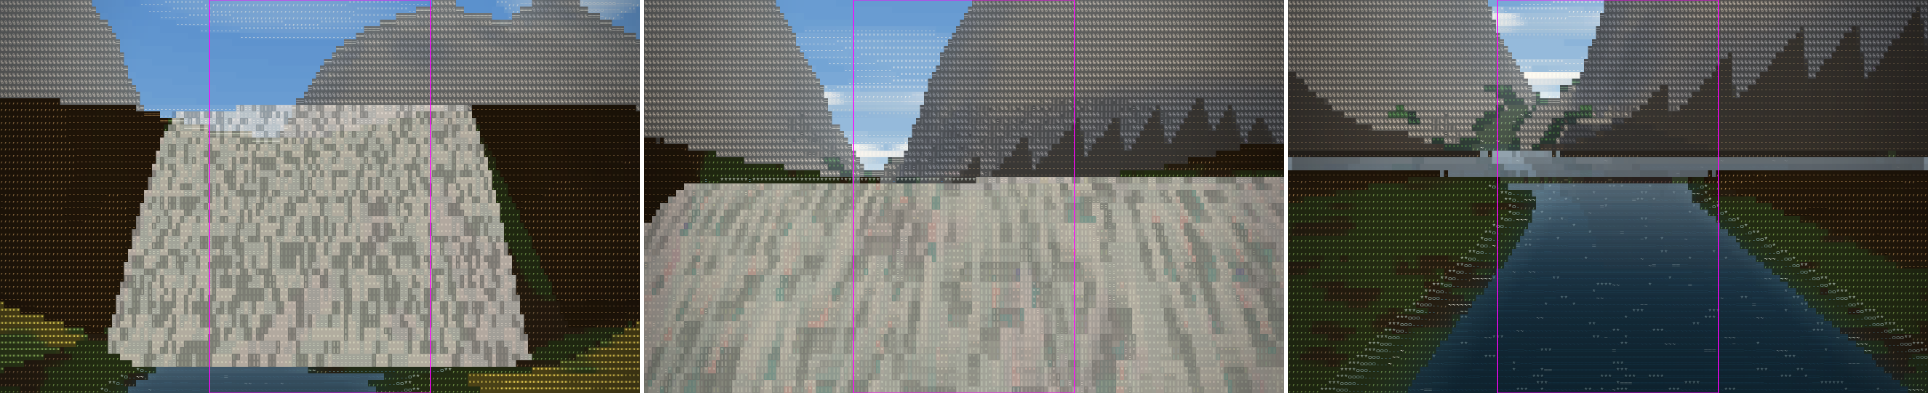
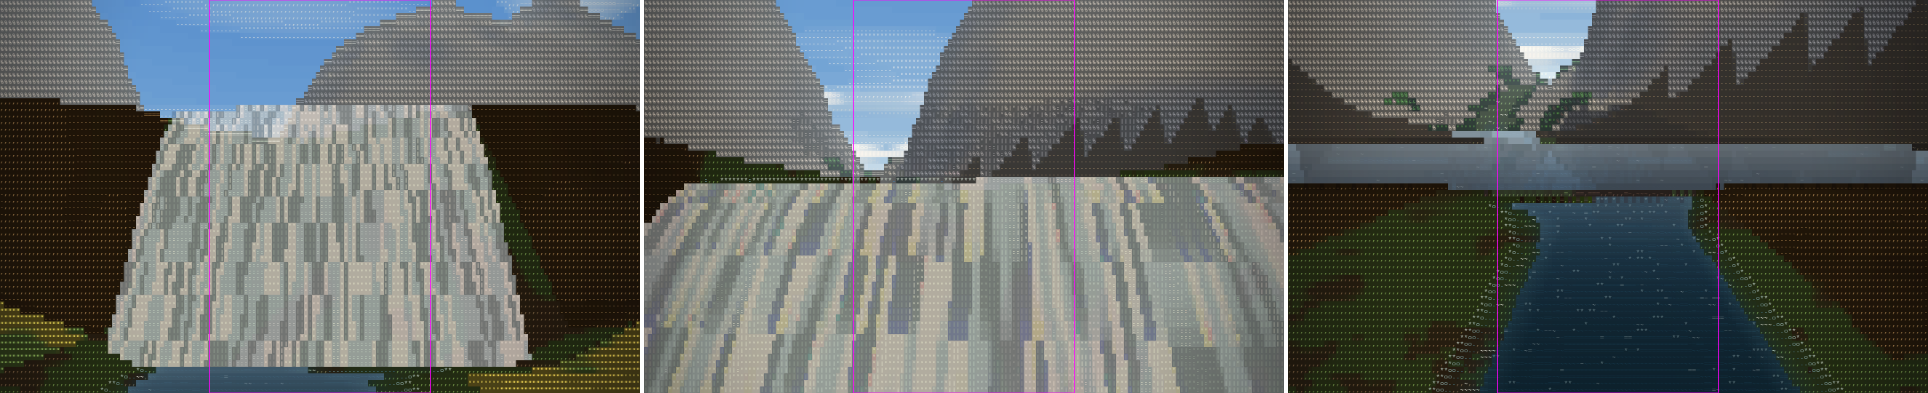
TEASER-QA-01/03: leaves path re-authored into the 12-trunk stand (hour 10); waterfall sheet hash cells 2 m long down the fall (streaks, not stone) in twin + WGSL + GLSL ref, sheet tint blue-white (designer to sign off); river-falls end key raised so the lake reads open

diff --git a/engine/render/gpu/wgsl/waterComposite.wgsl.js b/engine/render/gpu/wgsl/waterComposite.wgsl.js
@@ -12,7 +12,7 @@ import {
   GBUF_UNPACK_WGSL, FULLSCREEN_VS_WGSL, CELL_RAY_WGSL, CELL_RAY_PITCHED_WGSL, FMOD_WGSL, HASH_FAST_WGSL, BYTE_OUT_WGSL,
 } from './common.wgsl.js';
 import { SUN_N_SHIFT, SUN_N_MASK, CLOUD_Q_SHIFT } from '../../shadowSun.js'; // CLOUD_Q_SHIFT: S8-B2-12c (38.13)
-import { WL_STRIDE, WL_SLOTS, WATER_HASH_SALT, WATER_FLOW_SALT, WATER_FALL_SALT, RIPPLE_SLOTS, RIPPLE_ACC_MIN } from '../../waterLook.js';
+import { WL_STRIDE, WL_SLOTS, WATER_HASH_SALT, WATER_FLOW_SALT, WATER_FALL_SALT, FALL_STREAK_M, RIPPLE_SLOTS, RIPPLE_ACC_MIN } from '../../waterLook.js';
 import { SKY_LUT_N } from './skyLut.js';
 import { WATER_REFLECT } from '../../waterReflect.js'; // AUD-42: constants shared with the JS twin
 import { WF_SLOTS, WATER_FINISH_WGSL } from '../../waterFinish.js'; // WATER-FINISH-01b (38.77): finish row + reflection/caustic helpers
@@ -261,7 +261,7 @@ struct FO { @location(0) fg: vec4f, @location(1) bg: vec4f };
     let lip = wu.wl[lb + 10];
     let u = (P.x - lip.x) * lip.z + (P.y - lip.y) * lip.w;
     let ia = i32(floor(u / 0.25));
-    let ib = i32(floor((bitcast<f32>(w.z) - wu.wl[lb + 9].x) / 0.6));
+    let ib = i32(floor((bitcast<f32>(w.z) - wu.wl[lb + 9].x) / ${FALL_STREAK_M.toFixed(1)}));
     let h = hashFastU(ia & 1023, ib & 1023, ${WATER_FALL_SALT});
     let gi = i32(umod(h, u32(nGlyph)));
     let gv = wu.wl[lb + 4 + (gi >> 2)];

diff --git a/engine/render/waterLook.js b/engine/render/waterLook.js
@@ -31,6 +31,8 @@ export const WATER_HASH_SALT = 57;
 /** Salt of the flow streak hash (`hashFastU(ia & 1023, ib & 1023, WATER_FLOW_SALT)`, 35.4). */
 export const WATER_FLOW_SALT = 59;
 export const WATER_FALL_SALT = 61;
+// TEASER-QA-03: sheet hash cell = 0.25 m across x FALL_STREAK_M along the fall (was 0.6: per-cell noise read as a stone wall from 20+ m; long cells = falling streaks).
+export const FALL_STREAK_M = 2;
 /** Flow below this speed (m/s) is still water: the 32.2 time-bucket hash, no streaks. */
 export const FLOW_MIN = 0.05;
 /** Slots 0..7 regions, 8..11 waterfall sheets (35.3), 12..13 river ribbons (38.45, RIVER-03: the GPU uniform now holds all 14). */
@@ -234,7 +236,7 @@ export function waterSurfaceHash(t, lb, px, py) {
 export function waterfallHash(t, lb, px, py, arc) {
   const f = Math.fround;
   const u = f(f(f(f(px) - t[lb + 40]) * t[lb + 42]) + f(f(f(py) - t[lb + 41]) * t[lb + 43]));
-  const a = Math.floor(f(u / f(0.25))), b = Math.floor(f(f(f(arc) - t[lb + 36]) / f(0.6)));
+  const a = Math.floor(f(u / f(0.25))), b = Math.floor(f(f(f(arc) - t[lb + 36]) / f(FALL_STREAK_M)));
   return hashFastU(a & 1023, b & 1023, WATER_FALL_SALT);
 }
 

diff --git a/design/waterfall.js b/design/waterfall.js
@@ -4,9 +4,9 @@
   const base = { burst: 0, dir: [0, 0, 1], wind: 0, emissive: false, emissiveFog: 0, killBelow: null };
   A.waterfall = {
     preset: { id: 'waterfall', lip: [6, 7, 12, 7], z: 8, out: 1.5, outDeg: 180, drop: 8, look: 'waterfall' },
-    // OB-045: white water. The sheet colour is the look's `shallow` (was the engine default sea-glass blue -> a dark slate wall).
+    // OB-045: white water (TEASER-QA-03: blue-white: the near-white sheet over brown rock read beige). The sheet colour is the look's `shallow` (was the engine default sea-glass blue -> a dark slate wall).
     look: { fallRamp: "|:'", fallSpeed: 10, highlight: [250, 252, 255], sheetAlpha: 0.75,
-            shallow: [236, 244, 248], deep: [150, 182, 198], bgK: 0.85 }, // bgK high: thin fall glyphs, the bg carries the white
+            shallow: [214, 232, 244], deep: [150, 182, 198], bgK: 0.85 }, // bgK high: thin fall glyphs, the bg carries the white
     // View z is feet height; the normal game camera adds standing eye height.
     views: {
       front: { x: 9, y: 23, z: 0.15, yawDeg: 0, pitchDeg: 7 },

diff --git a/engine/render/gpu/wgsl/waterComposite.glslref.js b/engine/render/gpu/wgsl/waterComposite.glslref.js
@@ -11,7 +11,7 @@
 import { GLSL_VERSION, PRECISION, GBUF_UNPACK, BYTE_OUT, CELL_RAY_PITCHED } from './glslref.common.js';
 import { HASH_FAST, PITCH_UNIFORMS, CELL_RAY } from './glslref.extra.js';
 import { SUN_N_SHIFT, SUN_N_MASK } from '../../shadowSun.js';
-import { WL_STRIDE, WL_SLOTS, WATER_HASH_SALT, WATER_FLOW_SALT, WATER_FALL_SALT } from '../../waterLook.js';
+import { WL_STRIDE, WL_SLOTS, WATER_HASH_SALT, WATER_FLOW_SALT, WATER_FALL_SALT, FALL_STREAK_M } from '../../waterLook.js';
 
 export const WATER_COMPOSITE_VECS_PER_SLOT = WL_STRIDE / 4;
 
@@ -126,7 +126,7 @@ void main() {
   if (sheet) {
     vec4 lip = uWL[lb + 10];
     float u = (P.x - lip.x) * lip.z + (P.y - lip.y) * lip.w;
-    int ia = int(floor(u / 0.25)), ib = int(floor((uintBitsToFloat(w.z) - uWL[lb + 9].x) / 0.6));
+    int ia = int(floor(u / 0.25)), ib = int(floor((uintBitsToFloat(w.z) - uWL[lb + 9].x) / ${FALL_STREAK_M.toFixed(1)}));
     uint h = hashFastU(ia & 1023, ib & 1023, ${WATER_FALL_SALT});
     int gi = int(h % uint(nGlyph));
     vec4 gv = uWL[lb + 4 + (gi >> 2)];

diff --git a/docs/test-reports/teaser/index.md b/docs/test-reports/teaser/index.md
@@ -9,8 +9,8 @@ Build: pc-b 3e972a4d (+ TEASER-QA path fixes). `node tools/teaser-stills.mjs --p
 | teaser-dawn-sea | 6.25 | OK | warm dawn (DAWN-COLOUR-01 OK); dark bar / step on the horizon right of the crop |
 | teaser-fire | 22 | OK | room dark, fire lit; small sky/window patch top-right corner of the crop at the end |
 | teaser-grass | 17 | defects | dark building block on the horizon (mid, in crop, brief says no buildings); sun drawn as a light cone/wedge from the top edge; green specks floating above the horizon; lower half murky |
-| teaser-leaves | 15.5 | broken | start+mid nearly black (no ferns/saplings/trunks visible); end shows rooftops/landmarks on the horizon; sun disc huge at the top. Needs re-authoring |
-| teaser-river-falls | 11 | defects | falls sheet reads as a beige stone wall (no water colour); end: flat grey slab across the horizon (Glasswater surface sits above the river = water-level step) |
+| teaser-leaves | 10 (was 15.5) | fixed (path, TEASER-QA-01) | old path (`-before-sheet`): ONE real tree within 15 m of the push, camera looked at bare forest-type floor into the 15:30 sun, village roofs on the end horizon. Re-authored into the 12-trunk stand at 1406,916, hour 10, tilt -20 -> -8: trunks/crowns/sky gaps in every frame, no buildings. Open: shaded forest floor under the stand still renders near-black (render, not path) |
+| teaser-river-falls | 11 | fixed (TEASER-QA-03) | (`-before-sheet`) beige wall = per-cell sheet hash 0.25 x 0.6 m (noise from 20 m) + near-white over brown rock: hash cell now 0.25 x 2 m along the fall (FALL_STREAK_M, JS + WGSL + glslref; gpucompare waterfall rows PASS) + blue-white shallow -> falling streaks. Slab: no level bug (lake -58, outlet -58 -> -59.6, banks -57.2); from 2.7 m over the banks only a grazing band showed; end key z -51 pitch -11 -> open lake. Open: lake mirrors the grey cliffs (pale grey, TEASER-QA-02 territory) |
 | teaser-sky | 19 | OK | dusk clouds, no ground |
 | teaser-strand-dawn | 6.5 | defects | coast is a stair-stepped dark silhouette (coarse terrain) with a thin dark tongue floating at its tip |
 | teaser-water | 12 (was 17) | fixed (hour) | at 17:00 the lake rendered near-black brown (`-h17-before-sheet`); at 12:00 it reads blue. Far shore = flat stepped slab band at the top |

diff --git a/docs/lanes/pc-b1.md b/docs/lanes/pc-b1.md
@@ -1877,3 +1877,5 @@ Before/after teaser t=0: docs/test-reports/ob213-falls-before.png / ob213-falls-
 - WIDE VIEW + ED-QUI-05 CONVERSATION + ED-QUI-06 REWARDS (k4, OB-214, uncommitted): Quest tab opens wide (left dock min(56vw,720px), right dock hidden, NARROW/WIDE toggle in the strip, 2-column card grid, step + node grids); card [04] terminal nodes (quest/conversation.js: speaker, node id, gate, quoted lines n/56 red when over, read-only branches GOTO/IF/SETS, Accept/Exit + dangling-GOTO lint); card [05] reward tiles (quest/rewards.js: items by plain name, heart piece 0/1, coin DISABLED "Currency: owner decision open" because questBook.js pays items only, next quest picker, last reward cannot be removed, no-reward = warn). Old flow text, formatBlock, Offer field removed. Tests conversation.test.mjs; verify-edqui-05 PASS (edqui-05.png); verify-edq-02 (quest-flow) is now outdated.
 - TEASER-QA (k2, D-036): new tools/teaser-stills.mjs (one headless run, ultra 480x180, start/mid/end + 3-up sheet) -> docs/test-reports/teaser/ (index.md). OK: sky, dawn-sea, fire; fixed: crypt-night end framing (door centred), teaser-water hour 17 -> 12 (water near-black at 17:00).
   Queued TEASER-QA-01..07 in docs/pc-b-queue.md (leaves broken, low-sun water, falls/lake step, crypt facade, grass horizon/sun wedge, stepped coasts, crypt-drone dark). No render code changed.
+- TEASER-QA-01/03 (k2, 2026-10-16, uncommitted): leaves = path bug (1 real tree within 15 m, bare floor into the 15:30 sun, roofs on horizon) -> re-authored into the 12-trunk stand at 1406,916, hour 10, tilt -20 -> -8 (TEASER_HOURS + README). Falls beige wall = sheet hash cell 0.25 x 0.6 m (noise) -> FALL_STREAK_M 2 m (waterLook.js + waterComposite wgsl/glslref) + blue-white look; lake "slab" = grazing view, no water-level bug (lake -58 > outlet -58..-59.6, banks -57.2) -> end key z -51 pitch -11.
+  Tests: water/waterfall/cinematic 18/18, check-deps OK, gpucompare vs rtx4060 baseline: only signal tower + decorFord (known). Sheets + `-before-sheet` in docs/test-reports/teaser. Open: forest floor under dense stand near-black; lake mirrors grey cliffs (QA-02). Status: QA-01 po-review, QA-03 arch-review.

diff --git a/design/cinematics/README.md b/design/cinematics/README.md
@@ -24,7 +24,7 @@ Mood-only 9:16 clips: close or abstract (grass, water, fire, sky, leaves, sea). 
 | `teaser-water` | 0.65 -> 0.5 m over open Glasswater, 20 m glide WNW, tilt -20 -> -22 (water fills the frame, far shore a thin band at the top) | 14 s | 12:00 (TEASER-QA 2026-10-16: at 17:00 the water renders near-black) | - (optional `cloudshadow=1`, WebGPU only) | `node tools/capture-cinematic.mjs --cinematic teaser-water --port 9512 --portrait --clean --hour 12` |
 | `teaser-fire` | push-in on the tower burner 2.4 -> 0.84 m, tilt -6 -> +18 up the smoke; night keeps the room dark | 12 s | 22:00 | - | `node tools/capture-cinematic.mjs --cinematic teaser-fire --port 9514 --portrait --clean --hour 22` |
 | `teaser-sky` | over the open sea, pitch up 44 -> 50 (frame ~20..74 deg elevation, no ground), slow pan 230 -> 262 into the dusk glow | 14 s | 19:00 | - | `node tools/capture-cinematic.mjs --cinematic teaser-sky --port 9516 --portrait --clean --hour 19` |
-| `teaser-leaves` | eye ~0.85 m, 6.4 m push NW into groveNorthWest's ferns/saplings, tilt -38 -> -18 into the trunks | 13 s | 15:30 | - (sun shafts: no page flag yet, see below) | `node tools/capture-cinematic.mjs --cinematic teaser-leaves --port 9518 --portrait --clean --hour 15.5` |
+| `teaser-leaves` | eye ~1.0 m, 9 m push WNW (yaw 295 -> 291) between the trunks of the dense real-tree stand at 1406,916 (TEASER-QA-01; the groveNorthWest disc had one tree), tilt -20 -> -8 into trunks and crowns | 13 s | 10:00 | - | `node tools/capture-cinematic.mjs --cinematic teaser-leaves --port 9518 --portrait --clean --hour 10` |
 | `teaser-dawn-sea` | open sea only, 1.3 m over the water, horizon just below the centre, very slow pan 100 -> 124 toward the sunrise | 15 s | 06:15 | - | `node tools/capture-cinematic.mjs --cinematic teaser-dawn-sea --port 9520 --portrait --clean --hour 6.25` |
 
 - **Same-day programmer work.** `--portrait` (= `--size 1080x1920`), `--hour H` (sends `?cinehour=H`) and `--clean` are **being added by the programmer (same day)**. They are already in `tools/capture-cinematic.mjs`'s argument parser.

diff --git a/docs/pc-b-queue.md b/docs/pc-b-queue.md
@@ -4,9 +4,9 @@
 Stills + verdicts: docs/test-reports/teaser/index.md (`node tools/teaser-stills.mjs`). Fixed in TEASER-QA: crypt-night end framing, teaser-water hour 17 -> 12.
 | id | what | track |
 |---|---|---|
-| TEASER-QA-01 | teaser-leaves broken: grove floor near-black, no ferns/trunks in frame, landmarks on the end horizon -> re-author the path (designer) after checking groveNorthWest content at 15:30 | PC-B design |
+| TEASER-QA-01 | teaser-leaves broken: grove floor near-black, no ferns/trunks in frame, landmarks on the end horizon -> re-author the path (designer) after checking groveNorthWest content at 15:30 | PC-B design | po-review (k2 2026-10-16: path re-authored to the 1406,916 stand, hour 10; floor under the stand still near-black = render) |
 | TEASER-QA-02 | Glasswater (and lakes at low sun) render near-black brown at 17:00 at pitch -20 (noon is blue): water shading at low sun, twin + gpucompare | PC-A render |
-| TEASER-QA-03 | braidFalls sheet reads as a beige wall (no water colour/motion in stills) + Glasswater surface visible as a raised slab above braid_outlet from the lip | PC-B content / render |
+| TEASER-QA-03 | braidFalls sheet reads as a beige wall (no water colour/motion in stills) + Glasswater surface visible as a raised slab above braid_outlet from the lip | PC-B content / render | arch-review (k2 2026-10-16: FALL_STREAK_M 0.6 -> 2 m sheet hash, JS+WGSL, gpucompare waterfall rows PASS; blue-white look; slab = grazing view, end key raised; no level bug) |
 | TEASER-QA-04 | crypt (cem32) is a facade only: the doorway shows sky/fence; add a back room or dark interior behind the door; fence rows float above the horizon west of the cemetery | PC-B content |
 | TEASER-QA-05 | teaser-grass: dark building block on the north horizon (mid), sun drawn as a wedge from the top edge (also leaves), green specks above the horizon | PC-B design + render ask |
 | TEASER-QA-06 | Far coast/shore silhouettes are stair-stepped slabs (strand-dawn coast, Glasswater far shore, dawn-sea horizon bar): coarse terrain LOD in the near band | PC-A world |
